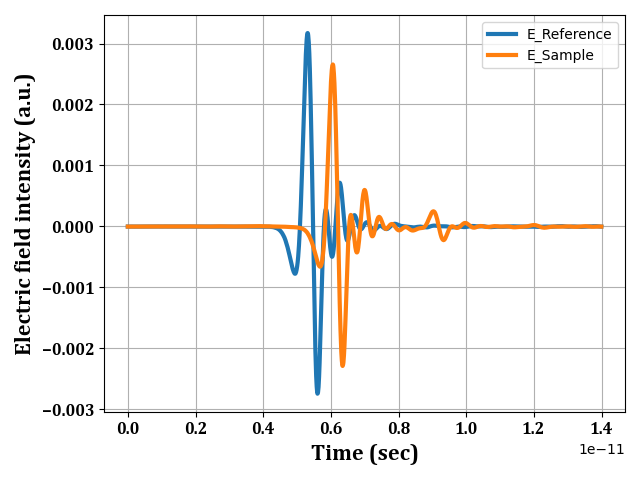
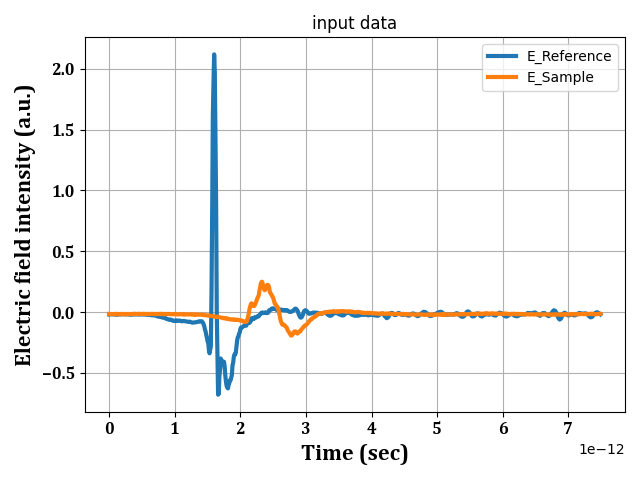
add title

diff --git a/main.py b/main.py
@@ -11,7 +11,8 @@ from scipy import optimize
 import os
 import warnings
 import tqdm
-import multiprocessing
+
+
 def time2freq(t_ref:npt.NDArray,
               E_ref:npt.NDArray,
               t_sam:npt.NDArray,
@@ -35,21 +36,7 @@ def time2freq(t_ref:npt.NDArray,
     t_ref-=np.min(t_ref)
     t_sam-=np.min(t_sam)
 
-    # Plot time-domain signals
-    plt.figure()
-    plt.title("")
-    plt.plot(t_ref, E_ref, linewidth=3, label='E_Reference')
-    plt.plot(t_sam, E_sam, linewidth=3, label='E_Sample')
-    plt.legend(prop={'weight':'bold', 'family':'Cambria'})
-    plt.grid(True)
-    # plt.show()
-    plt.xlabel('Time (sec)', fontsize=16, fontweight='bold', fontname='Cambria')
-    plt.ylabel('Electric field intensity (a.u.)', fontsize=16, fontweight='bold', fontname='Cambria')
-    plt.xticks(fontsize=12, fontweight='bold', fontname='Cambria')
-    plt.yticks(fontsize=12, fontweight='bold', fontname='Cambria')
-    plt.legend()
-    plt.tight_layout()
-    plt.savefig("input.png")
+    
 
 
     # Common time grid
@@ -124,14 +111,14 @@ def time2freq(t_ref:npt.NDArray,
     plt.figure()
     plt.plot(f, np.log10(np.abs(E_ref_from_fft)), linewidth=3, label='E_Reference')
     plt.plot(f, np.log10(np.abs(E_sam_from_fft)), linewidth=3, label='E_Sample')
-    #plt.title('One-sided Fourier Transform')
+    # plt.title('One-sided Fourier Transform')
     plt.xlabel('Frequency (Hz)', fontsize=16, fontweight='bold', fontname='Cambria')
     plt.ylabel('Electric field intensity (a.u.)', fontsize=16, fontweight='bold', fontname='Cambria')
     plt.xticks(fontsize=12, fontweight='bold', fontname='Cambria')
     plt.yticks(fontsize=12, fontweight='bold', fontname='Cambria')
     plt.legend()
     plt.grid(True)
-    plt.savefig("fft.png")
+    # plt.savefig("fft.png")
 
     # # Plot phase difference
     # plt.figure()
@@ -471,12 +458,26 @@ def main(sample_name:str,
     # === Time-domain to Frequency-domain ===
     t_file_ref = reference[:, 0] * 1e-12
     E_file_ref = reference[:, 1]
-    t_file_sig = sample[:, 0] * 1e-12
-    E_file_sig = sample[:, 1]
+    t_file_sample = sample[:, 0] * 1e-12
+    E_file_sample = sample[:, 1]
     
+    # Plot time-domain signals
+    plt.figure()
+    plt.title("input data")
+    plt.plot(t_file_ref, E_file_ref, linewidth=3, label='E_Reference')
+    plt.plot(t_file_sample, E_file_sample, linewidth=3, label='E_Sample')
+    plt.legend(prop={'weight':'bold', 'family':'Cambria'})
+    plt.grid(True)
+    # plt.show()
+    plt.xlabel('Time (sec)', fontsize=16, fontweight='bold', fontname='Cambria')
+    plt.ylabel('Electric field intensity (a.u.)', fontsize=16, fontweight='bold', fontname='Cambria')
+    plt.xticks(fontsize=12, fontweight='bold', fontname='Cambria')
+    plt.yticks(fontsize=12, fontweight='bold', fontname='Cambria')
+    plt.legend()
+    plt.tight_layout()
+    # plt.savefig("input.png")
 
-
-    tmp:dict[str,npt.NDArray|float] = time2freq(t_file_ref, E_file_ref, t_file_sig, E_file_sig, minTHz, maxTHz)
+    tmp:dict[str,npt.NDArray|float] = time2freq(t_file_ref, E_file_ref, t_file_sample, E_file_sample, minTHz, maxTHz)
 
     # === Load Data and Analytical n,k Extraction ===
     EsovEr:npt.NDArray[np.floating]    = tmp['EsovEr'].flatten()
@@ -565,7 +566,7 @@ def main(sample_name:str,
     scipy.io.savemat(f'Results/{sample_name}_result.mat',{'n':n+1j*k,'f':f,'error':error})
 
     fig, ax = plt.subplots(figsize=(6, 5))
-    plt.title(sample_name)
+    plt.title(f'output {sample_name!r}')
 
     ax.plot(f, n,color='blue', label="n")
     ax.set_xlabel('Frequency (THz)', fontsize=12, fontweight='bold', fontname='Arial')
@@ -593,10 +594,9 @@ def main(sample_name:str,
 
 
 if __name__ == '__main__':
-    # multiprocessing.set_start_method("spawn")
-    main(sample_name='SiO2',
+    main(sample_name='PA6',
         pop_size=1,
-        maxit=3000,
+        maxit=1,
         tolerance=1e-20,
         abs_tolerance=0.0,
         workers=-1)
